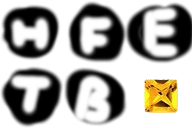
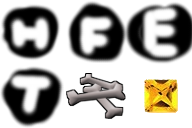
Spawn bones in place of food when eaten, added stub zombie spawn implementation

Changed region(s): [[0.3125, 0.5312, 0.6562, 1.0]]

diff --git a/src/com/nk/bites/pc/BitesMain.java b/src/com/nk/bites/pc/BitesMain.java
@@ -13,6 +13,7 @@ import com.ovl.controls.arm.MouseController;
 import com.ovl.engine.EngineConfig;
 import com.ovl.engine.OverloadEngine;
 import com.ovl.engine.arm.OverloadEngineArm;
+import com.ovl.utils.Paths;
 import com.ovl.utils.Vector2;
 
 public class BitesMain {
